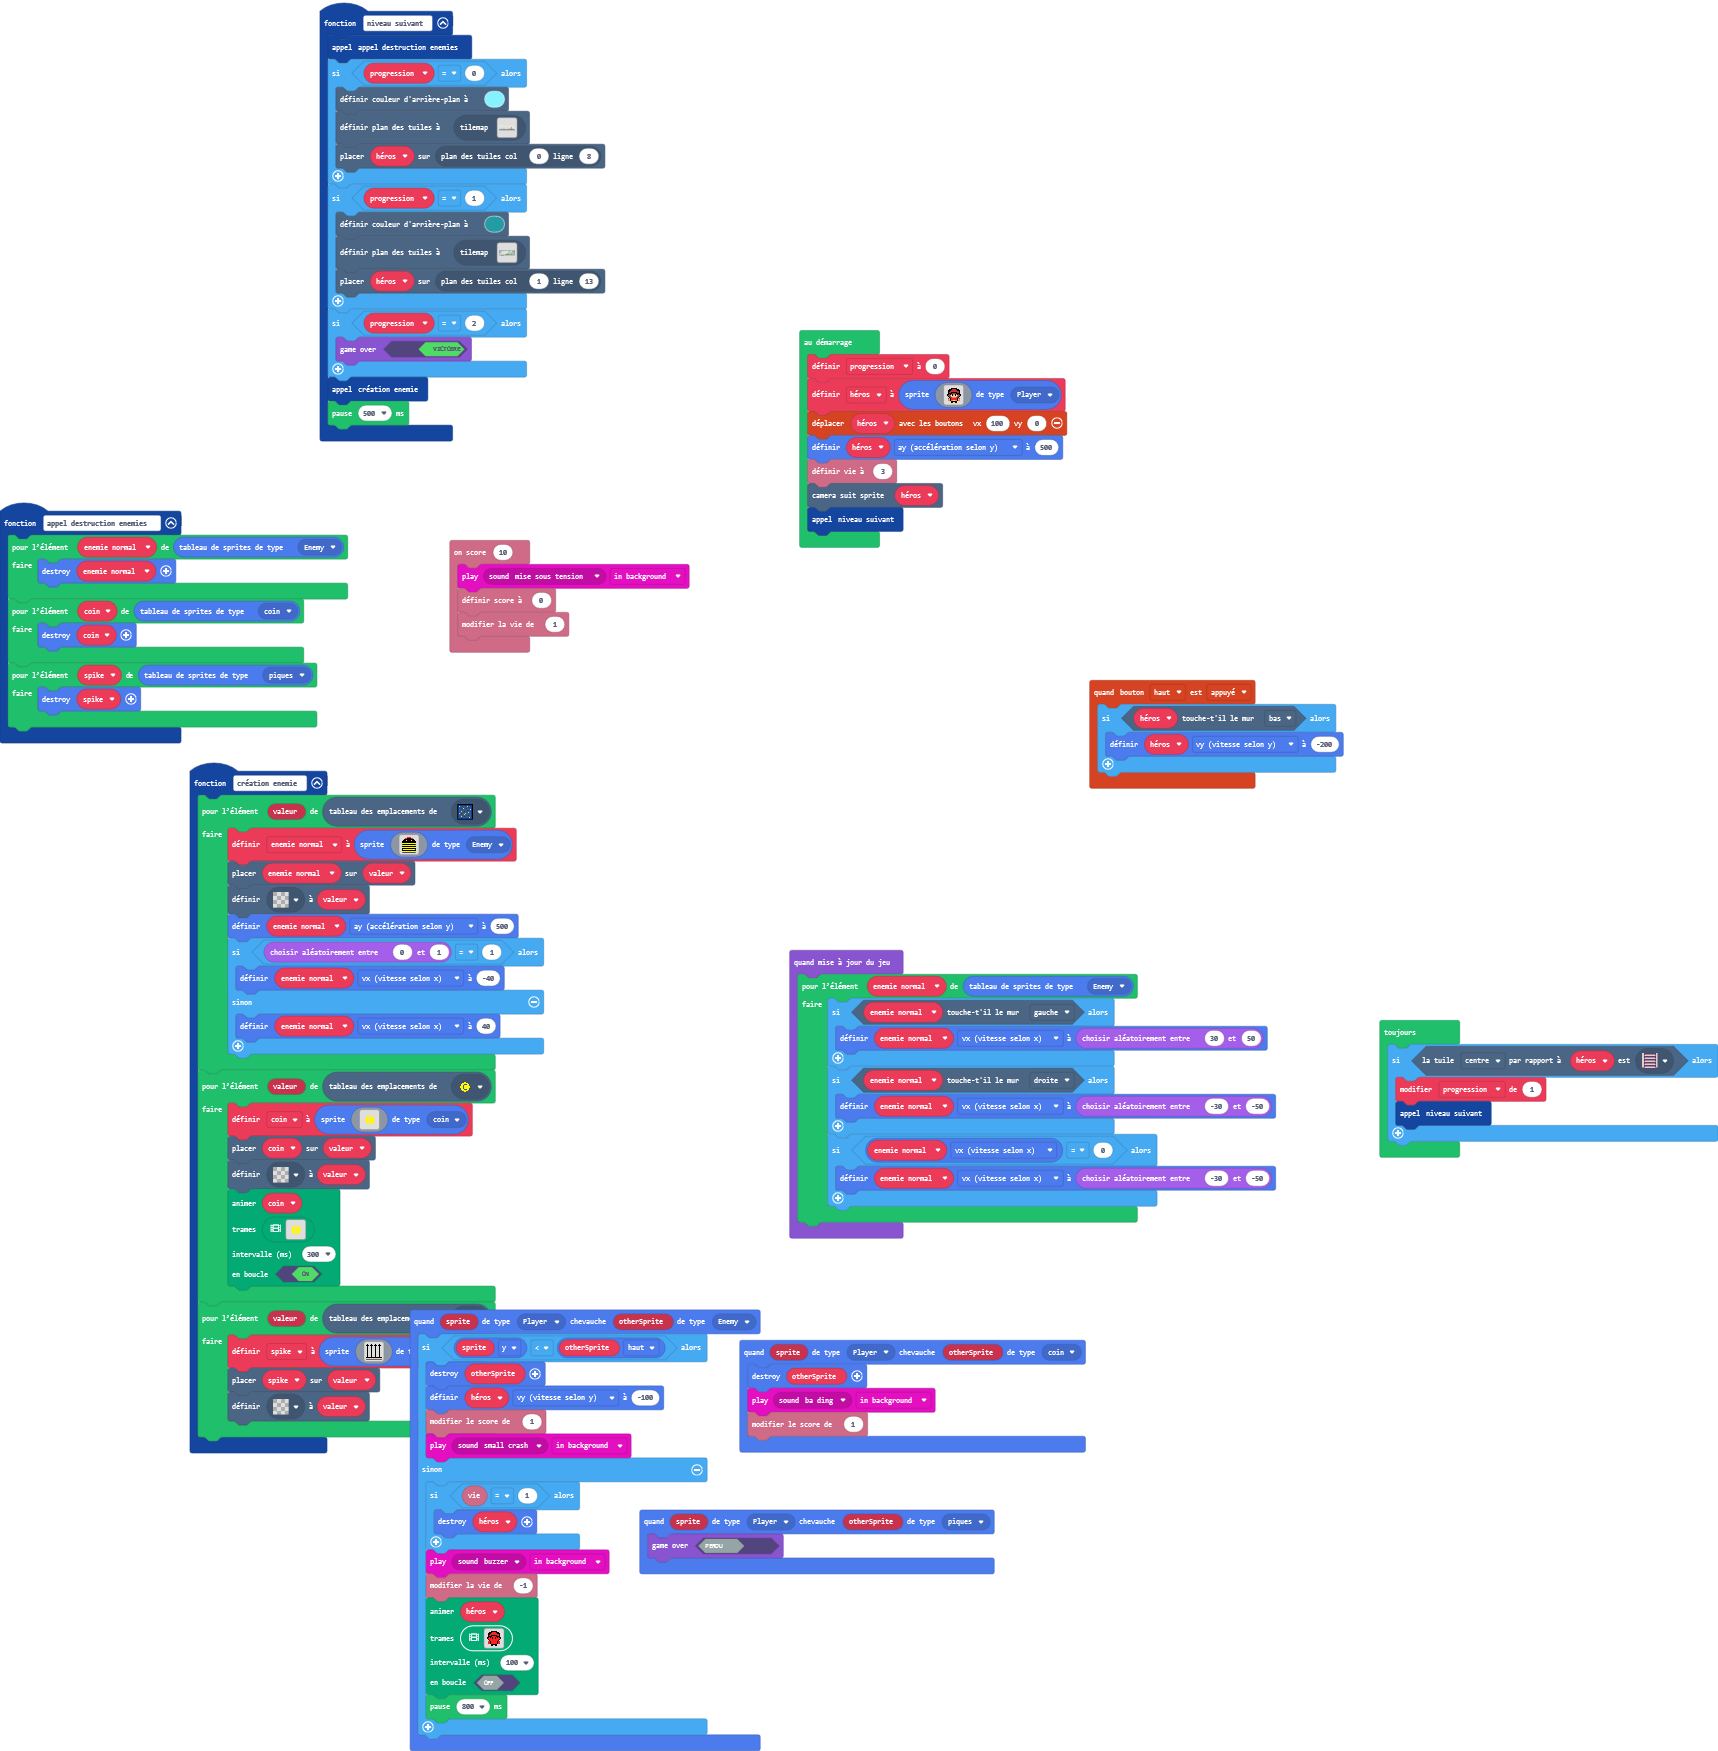
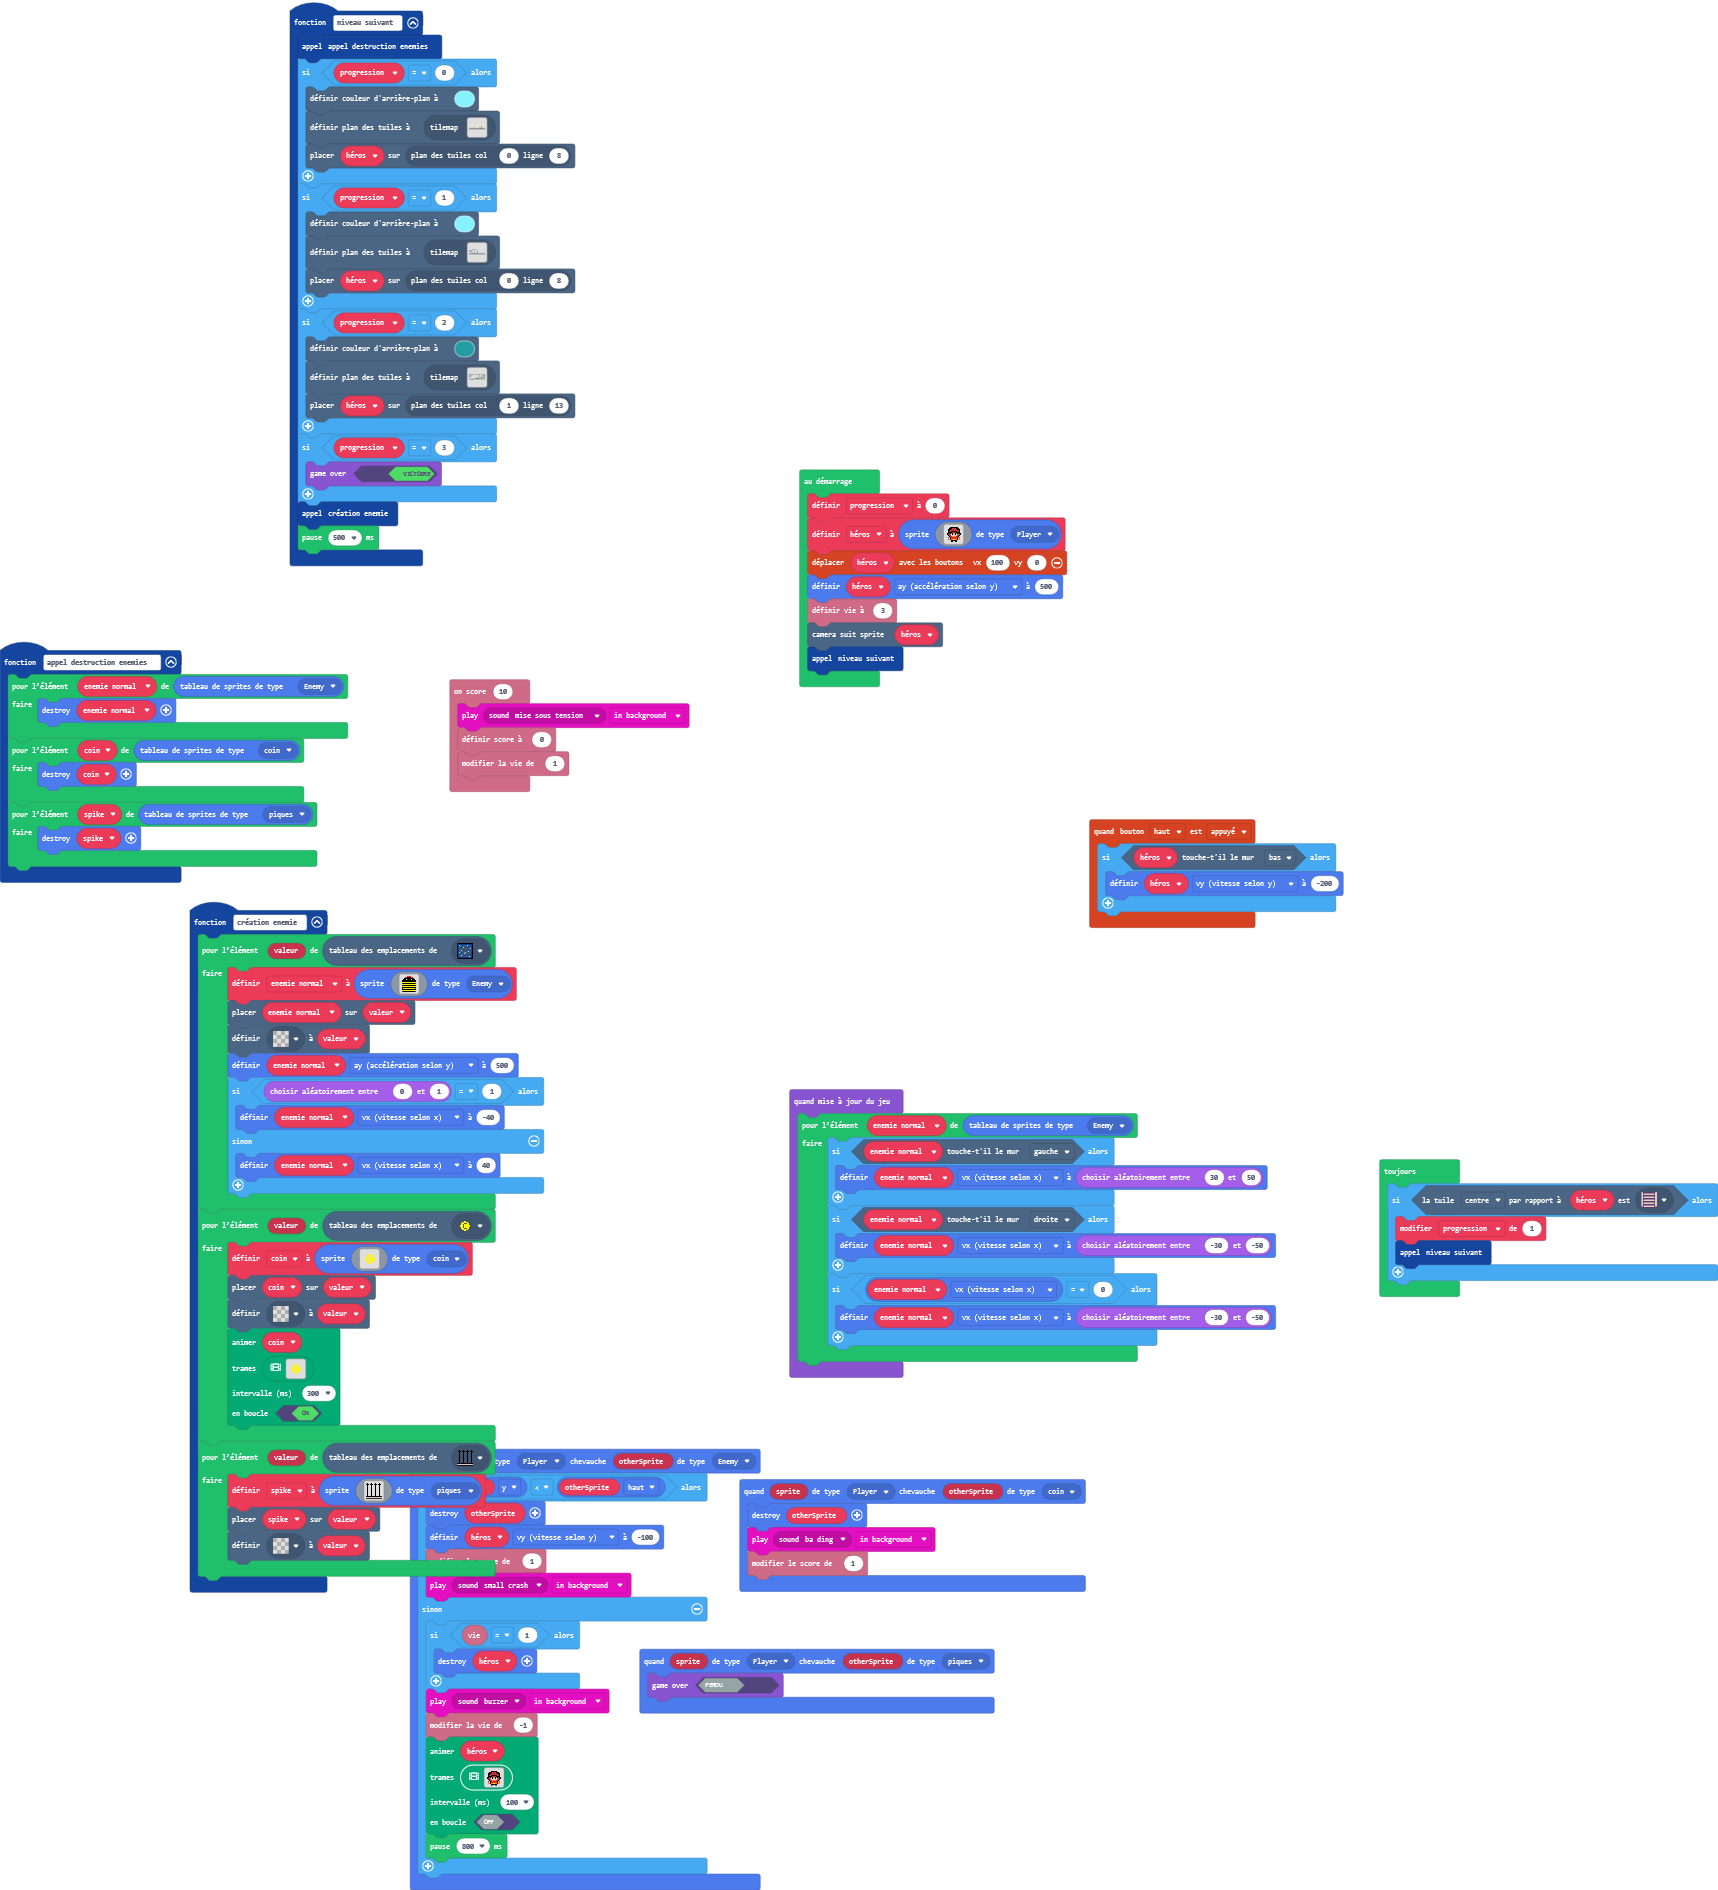
Mise à jour main.blocks, main.ts, tilemap.g.jres, tilemap.g.ts

diff --git a/tilemap.g.ts b/tilemap.g.ts
@@ -14,28 +14,11 @@ namespace myTiles {
     export const tile6 = image.ofBuffer(hex``);
     //% fixedInstance jres blockIdentity=images._tile
     export const tile2 = image.ofBuffer(hex``);
+    //% fixedInstance jres blockIdentity=images._tile
+    export const tile7 = image.ofBuffer(hex``);
 
     helpers._registerFactory("tilemap", function(name: string) {
         switch(helpers.stringTrim(name)) {
-            case "niveau3":
-            case "niveau3":return tiles.createTilemap(hex`1000100000000000000000000000000000000000000000000000000000000000000000000000000000000000000000000000000000000000000000000000000000000000000000000000000000000000000000000000000000000000000000000000000000000000000000000000000000000000000000000000000000000000000000000000000000000000000000000000000000000000000000000000000000000000000000000000000000000000000000000000000000000000000000000000000000000000000000000000000000000000000000000000000000000000000000000000000000000000000000000000000000000000000000000000000000000000`, img`
-. . . . . . . . . . . . . . . . 
-. . . . . . . . . . . . . . . . 
-. . . . . . . . . . . . . . . . 
-. . . . . . . . . . . . . . . . 
-. . . . . . . . . . . . . . . . 
-. . . . . . . . . . . . . . . . 
-. . . . . . . . . . . . . . . . 
-. . . . . . . . . . . . . . . . 
-. . . . . . . . . . . . . . . . 
-. . . . . . . . . . . . . . . . 
-. . . . . . . . . . . . . . . . 
-. . . . . . . . . . . . . . . . 
-. . . . . . . . . . . . . . . . 
-. . . . . . . . . . . . . . . . 
-. . . . . . . . . . . . . . . . 
-. . . . . . . . . . . . . . . . 
-`, [myTiles.transparency16], TileScale.Sixteen);
             case "niveau4":
             case "niveau4":return tiles.createTilemap(hex`1000100000000000000000000000000000000000000000000000000000000000000000000000000000000000000000000000000000000000000000000000000000000000000000000000000000000000000000000000000000000000000000000000000000000000000000000000000000000000000000000000000000000000000000000000000000000000000000000000000000000000000000000000000000000000000000000000000000000000000000000000000000000000000000000000000000000000000000000000000000000000000000000000000000000000000000000000000000000000000000000000000000000000000000000000000000000000`, img`
 . . . . . . . . . . . . . . . . 
@@ -112,37 +95,6 @@ namespace myTiles {
 . . . . . . . . . . . . . . . . 
 . . . . . . . . . . . . . . . . 
 `, [myTiles.transparency16], TileScale.Sixteen);
-            case "niveau0":
[1 lines of base64/hex data omitted]
-. . . . . . . . . . . . . . . . . . . . . . . . . . . . . . 
-. . . . . . . . . . . . . . . . . . . . . . . . . . . . . . 
-. . . . . . . . . . . . . . . . . . . . . . . . . . . . . . 
-. . . . . . . . . . . . . . . . . . . . . . . . . . . . . . 
-. . . . . . . . . . . . . . . . . . . . . . . 2 . . . . . . 
-. . . . . . . . . . . . . . . . . . . . . . . 2 . . . . . . 
-. . . . . . . . . . . . . . . . . . . . 2 . . 2 . . . . . . 
-. . . . 2 . . . . . 2 . . . . . . 2 . . 2 . . 2 . . . . . . 
-. . . . 2 . . . . . 2 . . . 2 . . 2 . . 2 . . 2 . . . . . . 
-2 2 2 2 2 2 2 2 2 2 2 2 2 2 2 2 2 2 2 2 2 2 2 2 2 2 2 2 2 2 
-`, [myTiles.transparency16,myTiles.tile1,sprites.builtin.forestTiles24,sprites.swamp.swampTile0,myTiles.tile3,sprites.dungeon.stairNorth,myTiles.tile5,myTiles.tile4,myTiles.tile6], TileScale.Sixteen);
-            case "niveau1":
[1 lines of base64/hex data omitted]
-2222222222222222222222222222222222222222
-2......................................2
-2.....222..............................2
-2...22....................2............2
-22........................2......2....22
-2.2.......................2.....22222222
-2..2...................2..2.....2......2
-2...2..................2.....2222......2
-2....2..............2..2...........22..2
-2...................2..2..2.2....2...2.2
-2......2.........2..2..2..2..2222..2..22
-2......2...2...22.22.22.22.22.22.22.2...
-2...2..2...2.........................2..
-2...2..2...2............................
-2222222222222222222222222222222222222222
-`, [myTiles.transparency16,myTiles.tile6,sprites.dungeon.floorLight1,sprites.dungeon.greenOuterNorth1,sprites.dungeon.greenOuterNorth0,myTiles.tile3,myTiles.tile4,sprites.dungeon.stairNorth,myTiles.tile2], TileScale.Sixteen);
             case "niveau9":
             case "niveau9":return tiles.createTilemap(hex`1000100000000000000000000000000000000000000000000000000000000000000000000000000000000000000000000000000000000000000000000000000000000000000000000000000000000000000000000000000000000000000000000000000000000000000000000000000000000000000000000000000000000000000000000000000000000000000000000000000000000000000000000000000000000000000000000000000000000000000000000000000000000000000000000000000000000000000000000000000000000000000000000000000000000000000000000000000000000000000000000000000000000000000000000000000000000000`, img`
 . . . . . . . . . . . . . . . . 
@@ -181,6 +133,107 @@ namespace myTiles {
 . . . . . . . . . . . . . . . . 
 . . . . . . . . . . . . . . . . 
 `, [myTiles.transparency16], TileScale.Sixteen);
+            case "niveau11":
+            case "niveau11":return tiles.createTilemap(hex`1000100000000000000000000000000000000000000000000000000000000000000000000000000000000000000000000000000000000000000000000000000000000000000000000000000000000000000000000000000000000000000000000000000000000000000000000000000000000000000000000000000000000000000000000000000000000000000000000000000000000000000000000000000000000000000000000000000000000000000000000000000000000000000000000000000000000000000000000000000000000000000000000000000000000000000000000000000000000000000000000000000000000000000000000000000000000000`, img`
+. . . . . . . . . . . . . . . . 
+. . . . . . . . . . . . . . . . 
+. . . . . . . . . . . . . . . . 
+. . . . . . . . . . . . . . . . 
+. . . . . . . . . . . . . . . . 
+. . . . . . . . . . . . . . . . 
+. . . . . . . . . . . . . . . . 
+. . . . . . . . . . . . . . . . 
+. . . . . . . . . . . . . . . . 
+. . . . . . . . . . . . . . . . 
+. . . . . . . . . . . . . . . . 
+. . . . . . . . . . . . . . . . 
+. . . . . . . . . . . . . . . . 
+. . . . . . . . . . . . . . . . 
+. . . . . . . . . . . . . . . . 
+. . . . . . . . . . . . . . . . 
+`, [myTiles.transparency16], TileScale.Sixteen);
+            case "niveau12":
+            case "niveau12":return tiles.createTilemap(hex`1000100000000000000000000000000000000000000000000000000000000000000000000000000000000000000000000000000000000000000000000000000000000000000000000000000000000000000000000000000000000000000000000000000000000000000000000000000000000000000000000000000000000000000000000000000000000000000000000000000000000000000000000000000000000000000000000000000000000000000000000000000000000000000000000000000000000000000000000000000000000000000000000000000000000000000000000000000000000000000000000000000000000000000000000000000000000000`, img`
+. . . . . . . . . . . . . . . . 
+. . . . . . . . . . . . . . . . 
+. . . . . . . . . . . . . . . . 
+. . . . . . . . . . . . . . . . 
+. . . . . . . . . . . . . . . . 
+. . . . . . . . . . . . . . . . 
+. . . . . . . . . . . . . . . . 
+. . . . . . . . . . . . . . . . 
+. . . . . . . . . . . . . . . . 
+. . . . . . . . . . . . . . . . 
+. . . . . . . . . . . . . . . . 
+. . . . . . . . . . . . . . . . 
+. . . . . . . . . . . . . . . . 
+. . . . . . . . . . . . . . . . 
+. . . . . . . . . . . . . . . . 
+. . . . . . . . . . . . . . . . 
+`, [myTiles.transparency16], TileScale.Sixteen);
+            case "niveau13":
+            case "niveau13":return tiles.createTilemap(hex`1000100000000000000000000000000000000000000000000000000000000000000000000000000000000000000000000000000000000000000000000000000000000000000000000000000000000000000000000000000000000000000000000000000000000000000000000000000000000000000000000000000000000000000000000000000000000000000000000000000000000000000000000000000000000000000000000000000000000000000000000000000000000000000000000000000000000000000000000000000000000000000000000000000000000000000000000000000000000000000000000000000000000000000000000000000000000000`, img`
+. . . . . . . . . . . . . . . . 
+. . . . . . . . . . . . . . . . 
+. . . . . . . . . . . . . . . . 
+. . . . . . . . . . . . . . . . 
+. . . . . . . . . . . . . . . . 
+. . . . . . . . . . . . . . . . 
+. . . . . . . . . . . . . . . . 
+. . . . . . . . . . . . . . . . 
+. . . . . . . . . . . . . . . . 
+. . . . . . . . . . . . . . . . 
+. . . . . . . . . . . . . . . . 
+. . . . . . . . . . . . . . . . 
+. . . . . . . . . . . . . . . . 
+. . . . . . . . . . . . . . . . 
+. . . . . . . . . . . . . . . . 
+. . . . . . . . . . . . . . . . 
+`, [myTiles.transparency16], TileScale.Sixteen);
+            case "monde1-1":
[1 lines of base64/hex data omitted]
+. . . . . . . . . . . . . . . . . . . . . . . . . . . . . . 
+. . . . . . . . . . . . . . . . . . . . . . . . . . . . . . 
+. . . . . . . . . . . . . . . . . . . . . . . . . . . . . . 
+. . . . . . . . . . . . . . . . . . . . . . . . . . . . . . 
+. . . . . . . . . . . . . . . . . . . . . . . 2 . . . . . . 
+. . . . . . . . . . . . . . . . . . . . . . . 2 . . . . . . 
+. . . . . . . . . . . . . . . . . . . . 2 . . 2 . . . . . . 
+. . . . 2 . . . . . 2 . . . . . . 2 . . 2 . . 2 . . . . . . 
+. . . . 2 . . . . . 2 . . . 2 . . 2 . . 2 . . 2 . . . . . . 
+2 2 2 2 2 2 2 2 2 2 2 2 2 2 2 2 2 2 2 2 2 2 2 2 2 2 2 2 2 2 
+`, [myTiles.transparency16,myTiles.tile1,sprites.builtin.forestTiles24,sprites.swamp.swampTile0,myTiles.tile3,sprites.dungeon.stairNorth,myTiles.tile5,myTiles.tile4,myTiles.tile6], TileScale.Sixteen);
+            case "monde2-1":
[1 lines of base64/hex data omitted]
+2222222222222222222222222222222222222222
+2......................................2
+2.....222..............................2
+2...22....................2............2
+22........................2......2....22
+2.2.......................2.....22222222
+2..2...................2..2.....2......2
+2...2..................2.....2222......2
+2....2..............2..2...........22..2
+2...................2..2..2.2....2...2.2
+2......2.........2..2..2..2..2222..2..22
+2......2...2...22.22.22.22.22.22.22.2...
+2...2..2...2.........................2..
+2...2..2...2............................
+2222222222222222222222222222222222222222
+`, [myTiles.transparency16,myTiles.tile6,sprites.dungeon.floorLight1,sprites.dungeon.greenOuterNorth1,sprites.dungeon.greenOuterNorth0,myTiles.tile3,myTiles.tile4,sprites.dungeon.stairNorth,myTiles.tile2], TileScale.Sixteen);
+            case "monde1-2":
[1 lines of base64/hex data omitted]
+. . . . . . . . . . . . . . . . . . . . . . . . . . . . . . 
+. . . . . . 2 2 2 2 2 2 2 . . . . . . . . . . . . . . . . . 
+. 2 2 2 2 2 . . . . . . . . . 2 . . . . . . . . . . . . . . 
+. . . . . . . . . . . . . . . 2 . . . . . . . . . . . . . . 
+2 2 2 2 2 2 . . . . . . . . . 2 . . . . . . . . . . . . . . 
+. . . . . . . . . 2 2 . . . . 2 . . . . . . . . . . . . . . 
+. . . . . . . . . . 2 . . . . 2 . . . . . . . . . . . . . . 
+. . . . . . 2 . . . 2 . . . . 2 . . . . . . . . . . . . . . 
+. . . 2 . . 2 . . . 2 . . . . 2 . . . . . . . . . . . . . . 
+2 2 2 2 2 2 2 2 2 2 2 2 2 2 2 2 2 2 2 2 2 2 2 2 2 2 2 2 2 2 
+`, [myTiles.transparency16,myTiles.tile6,sprites.swamp.swampTile1,sprites.builtin.forestTiles25,myTiles.tile7,sprites.dungeon.stairNorth], TileScale.Sixteen);
         }
         return null;
     })
@@ -200,6 +253,8 @@ namespace myTiles {
             case "tile6":return tile6;
             case "myTile0":
             case "tile2":return tile2;
+            case "myTile4":
+            case "tile7":return tile7;
         }
         return null;
     })

diff --git a/main.ts b/main.ts
@@ -149,15 +149,20 @@ function niveau_suivant () {
     appel_destruction_enemies()
     if (progression == 0) {
         scene.setBackgroundColor(9)
-        tiles.setCurrentTilemap(tilemap`niveau0`)
+        tiles.setCurrentTilemap(tilemap`monde1-1`)
         tiles.placeOnTile(héros, tiles.getTileLocation(0, 8))
     }
     if (progression == 1) {
-        scene.setBackgroundColor(6)
-        tiles.setCurrentTilemap(tilemap`niveau1`)
-        tiles.placeOnTile(héros, tiles.getTileLocation(1, 13))
+        scene.setBackgroundColor(9)
+        tiles.setCurrentTilemap(tilemap`monde1-2`)
+        tiles.placeOnTile(héros, tiles.getTileLocation(0, 8))
     }
     if (progression == 2) {
+        scene.setBackgroundColor(6)
+        tiles.setCurrentTilemap(tilemap`monde2-1`)
+        tiles.placeOnTile(héros, tiles.getTileLocation(1, 13))
+    }
+    if (progression == 3) {
         game.gameOver(true)
     }
     création_enemie()
@@ -328,7 +333,7 @@ let progression = 0
 progression = 0
 héros = sprites.create(img`
     . . . . . . . . . . . . . . . . 
-    . . . . . f f f f f f . . . . . 
+    . . . . f f f f f f f f . . . . 
     . . . f f f 2 2 2 2 f f f . . . 
     . . f f f e e e e e e f f f . . 
     . . f f e 2 2 2 2 2 2 e e f . . 
